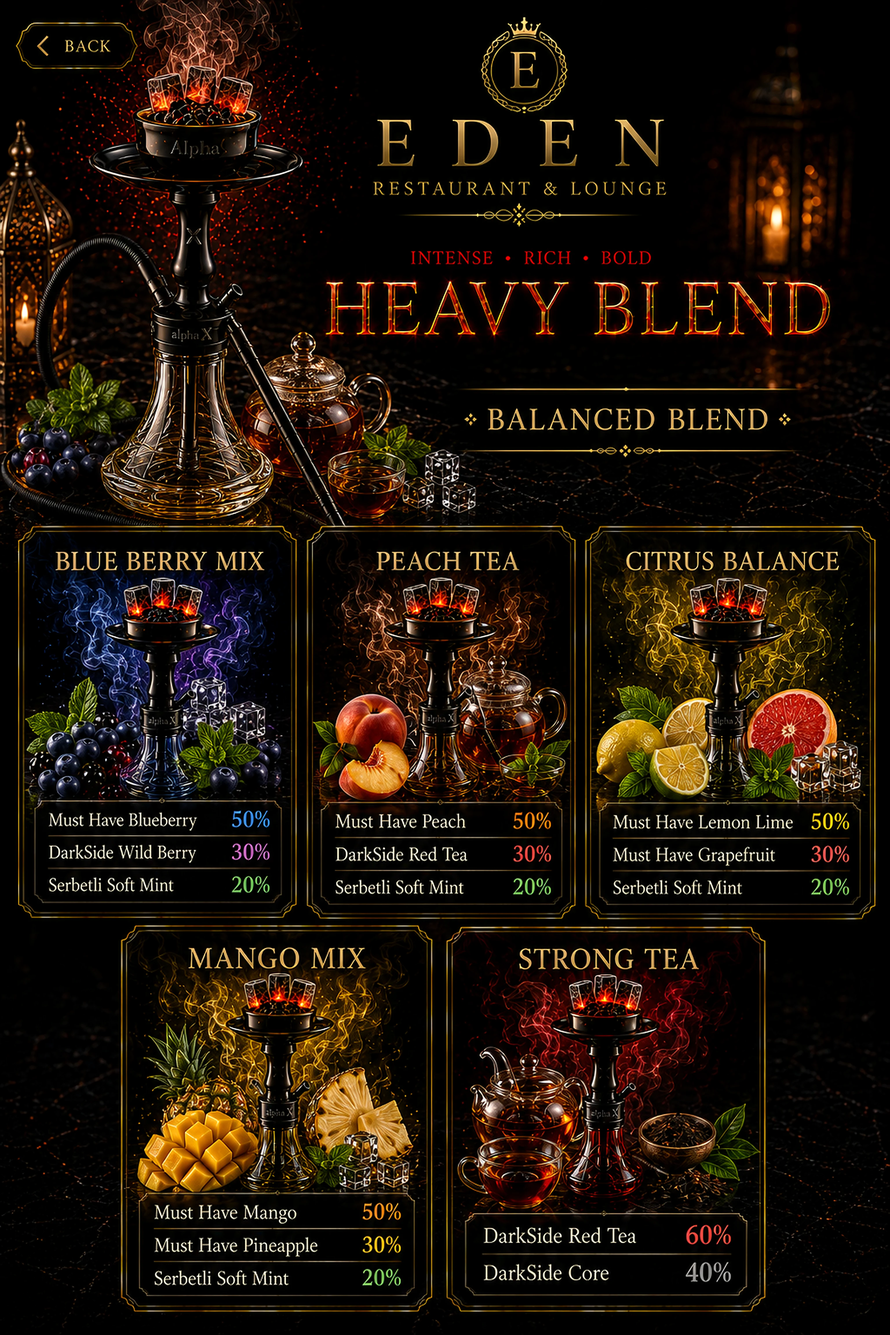
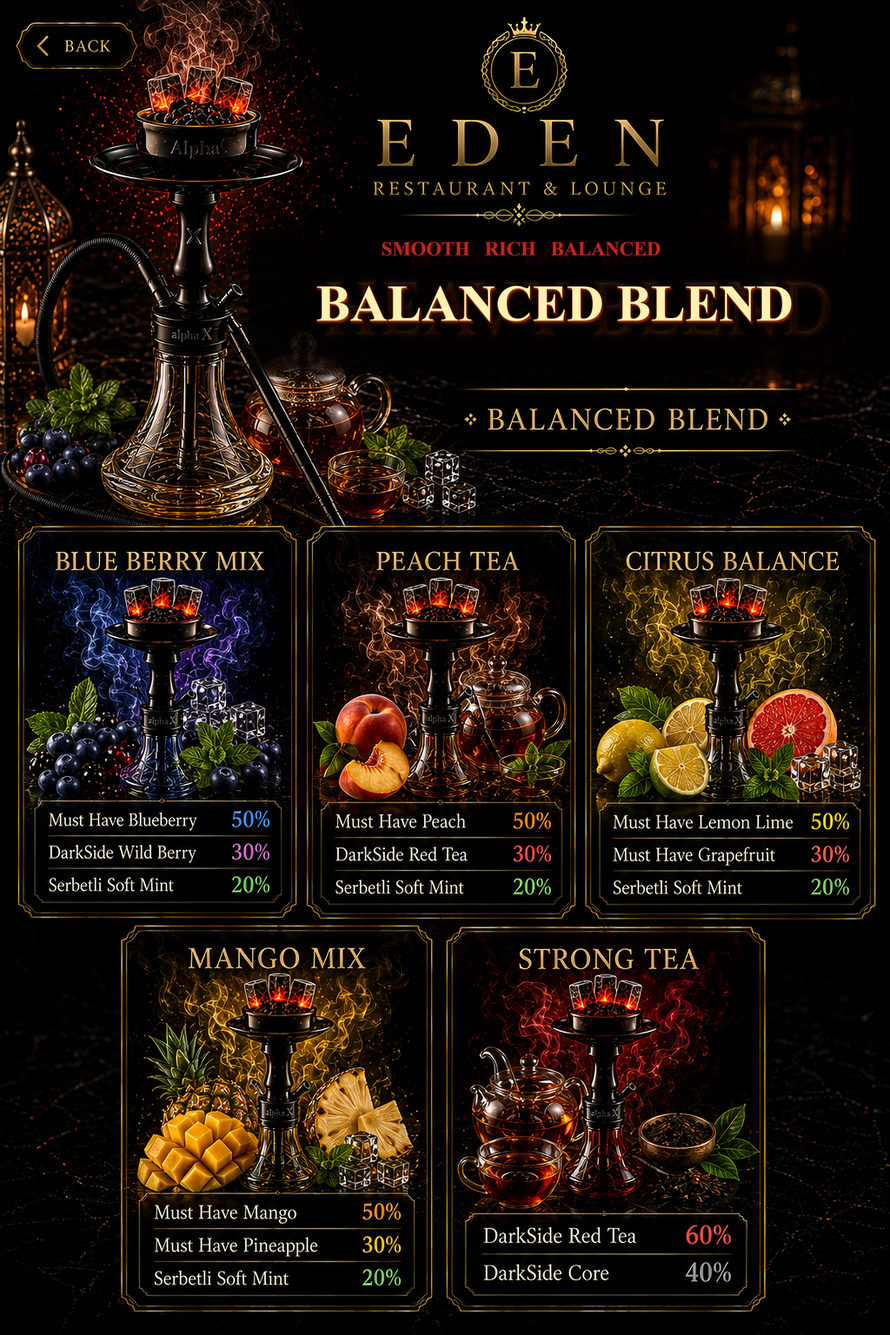
Fix balanced blend page title

Changed region(s): [[0.2812, 0.1562, 0.9375, 0.2812]]

diff --git a/script.js b/script.js
@@ -107,7 +107,7 @@ const sectionPages = {
     alt: "EDEN heavy blend hookah page"
   },
   "Balanced Blend": {
-    src: "assets/balanced-blend-page-4k.webp",
+    src: "assets/balanced-blend-page-4k.webp?v=20260519-balanced",
     alt: "EDEN balanced blend hookah page"
   },
   "Light & Smooth Blend": {

diff --git a/index.html b/index.html
@@ -171,6 +171,6 @@
       <div class="page-veil" aria-hidden="true"></div>
     </main>
 
-    <script src="script.js?v=20260518-4k-waiter"></script>
+    <script src="script.js?v=20260519-balanced"></script>
   </body>
 </html>
